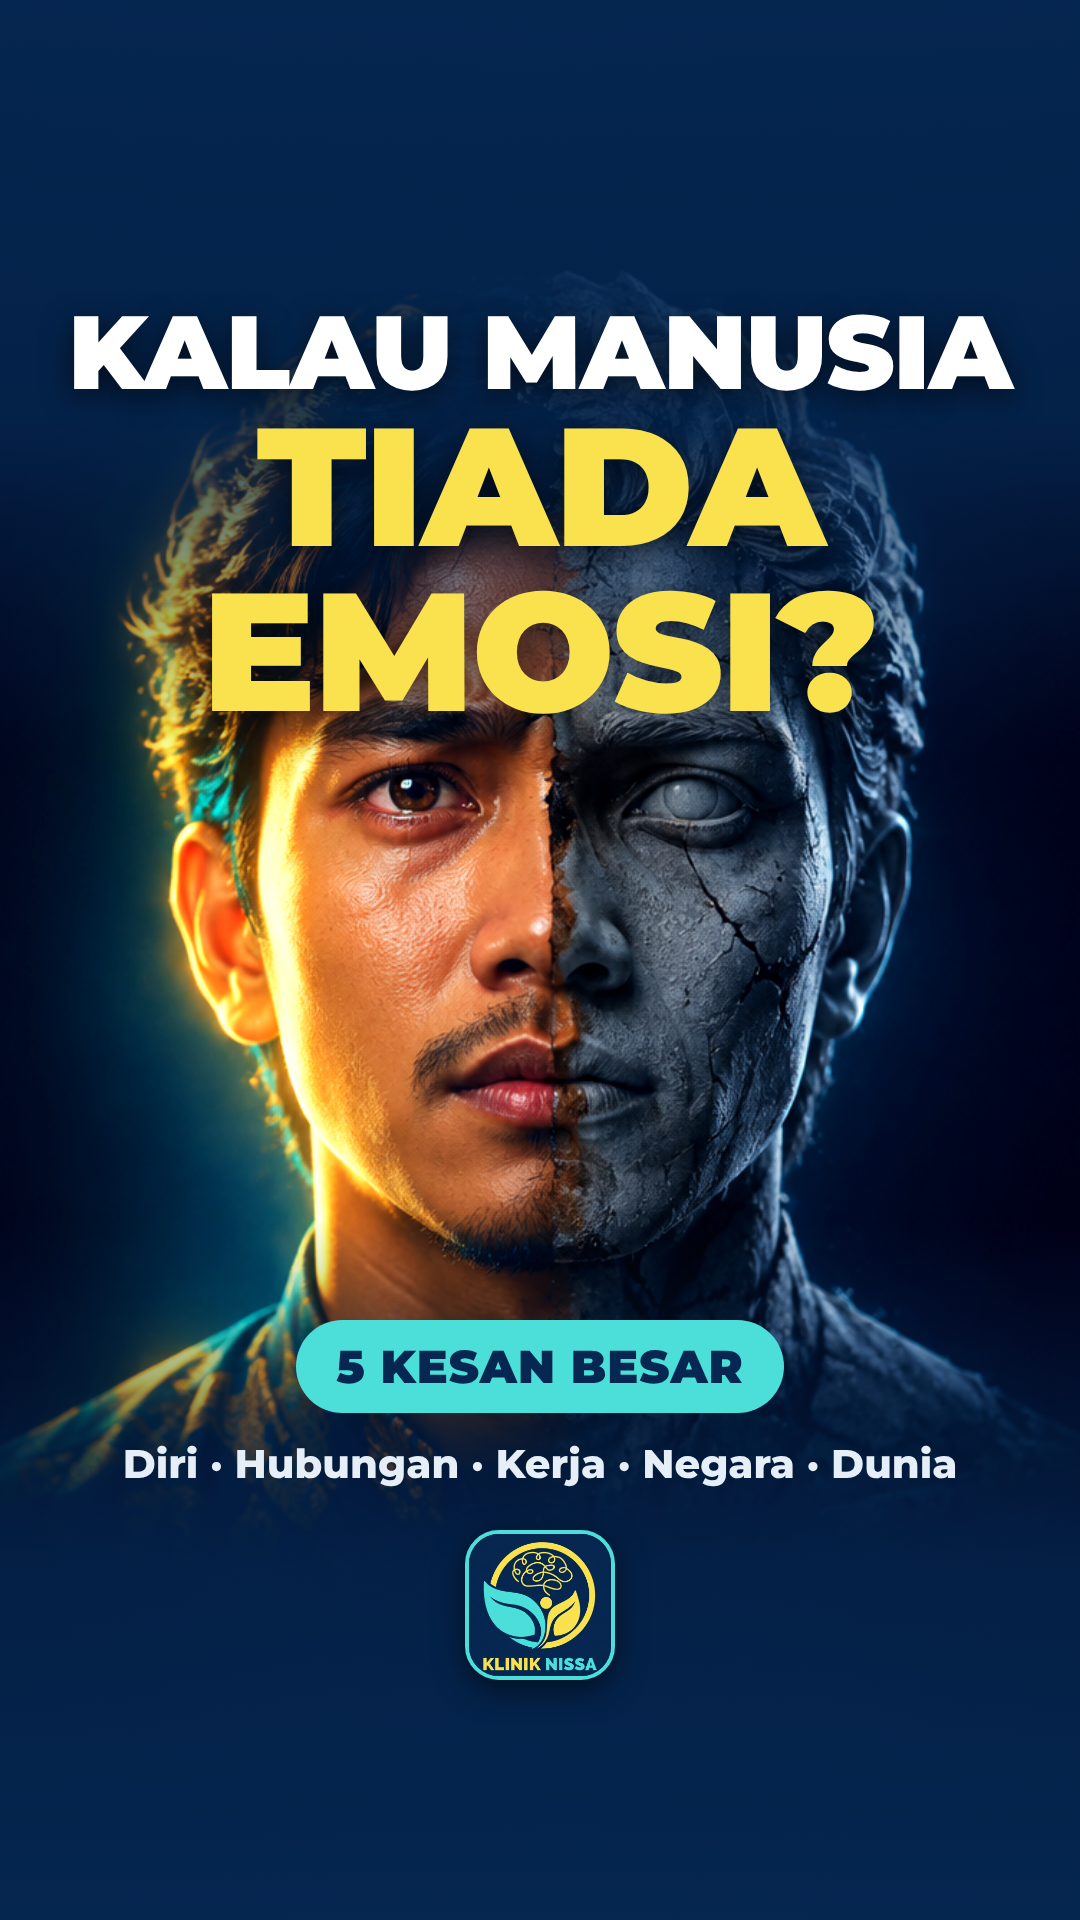
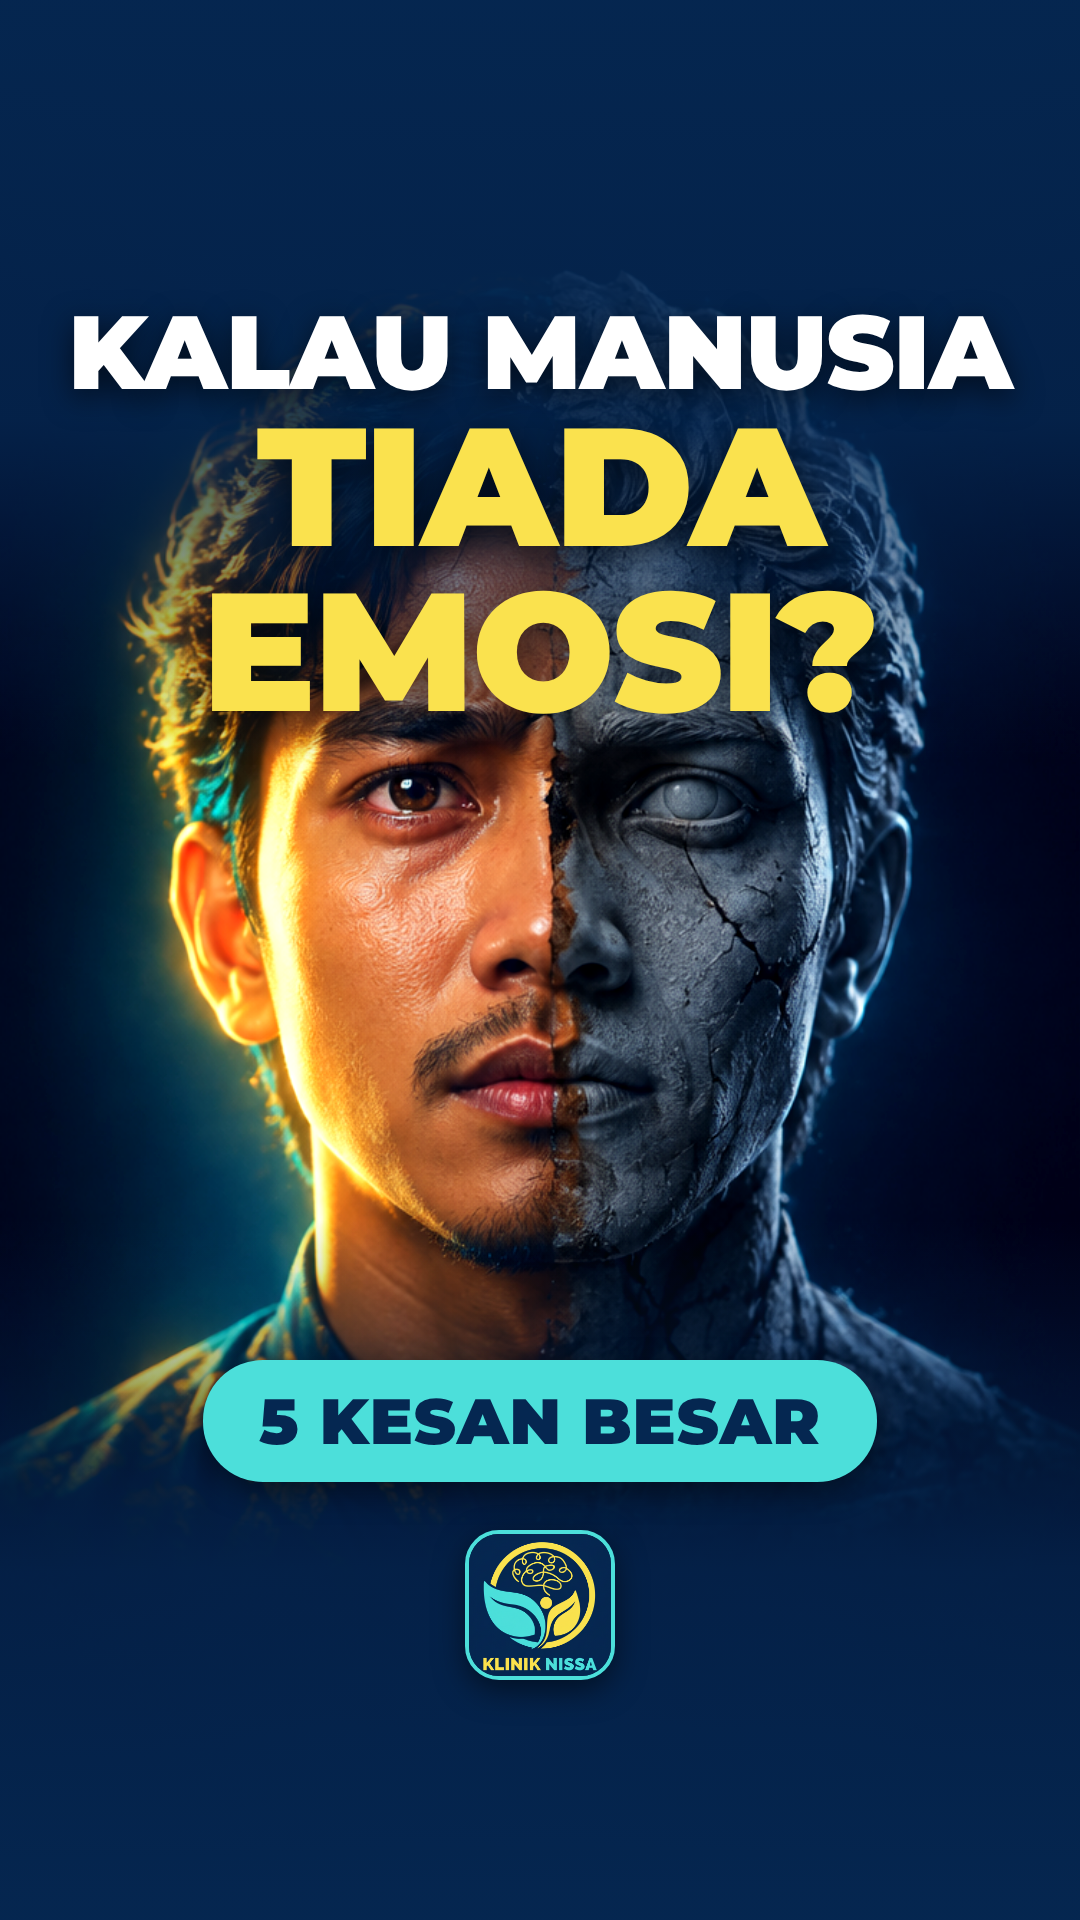
Thumbnail: keep only '5 KESAN BESAR' tagline
Claude-Session: https://claude.ai/code/session_016RkanbmSBfiNuCocE4tukE

Changed region(s): [[0.1222, 0.6875, 0.8861, 0.7812]]

diff --git a/work/render/thumbnail.html b/work/render/thumbnail.html
@@ -10,14 +10,14 @@ html,body{width:1080px;height:1920px;overflow:hidden;background:#052751;font-fam
 .head{position:absolute;left:60px;right:60px;top:300px;text-align:center}
 .head .a{font-weight:900;font-size:104px;line-height:1.0;letter-spacing:-1px;text-shadow:0 8px 30px rgba(0,0,0,.6)}
 .head .b{font-weight:900;font-size:168px;line-height:.98;color:#FAE24E;letter-spacing:-2px;text-shadow:0 10px 36px rgba(0,0,0,.6)}
-.foot{position:absolute;left:60px;right:60px;top:1320px;text-align:center}
-.pill{display:inline-block;background:#4CDFDA;color:#052751;font-weight:900;font-size:46px;padding:18px 40px;border-radius:60px;letter-spacing:1px}
+.foot{position:absolute;left:60px;right:60px;top:1360px;text-align:center}
+.pill{display:inline-block;background:#4CDFDA;color:#052751;font-weight:900;font-size:64px;padding:22px 56px;box-shadow:0 10px 30px rgba(0,0,0,.45);border-radius:60px;letter-spacing:1px}
 .sub{margin-top:26px;font-weight:800;font-size:40px;line-height:1.25;color:#e6eef8}
 .badge{position:absolute;left:50%;transform:translateX(-50%);top:1530px;width:150px;height:150px;border-radius:34px;overflow:hidden;border:4px solid #4CDFDA;box-shadow:0 10px 30px rgba(0,0,0,.5)}
 .badge img{width:100%;height:100%;object-fit:cover}
 </style></head><body>
 <div class="bg"></div><div class="shadeT"></div><div class="shadeB"></div>
 <div class="head"><div class="a">KALAU MANUSIA</div><div class="b">TIADA EMOSI?</div></div>
-<div class="foot"><div class="pill">5 KESAN BESAR</div><div class="sub">Diri · Hubungan · Kerja · Negara · Dunia</div></div>
+<div class="foot"><div class="pill">5 KESAN BESAR</div></div>
 <div class="badge"><img src="logo_crop.png" alt="Klinik Nissa"></div>
 </body></html>
